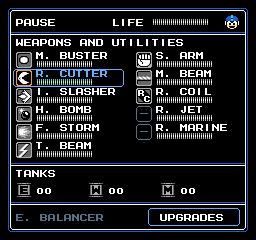
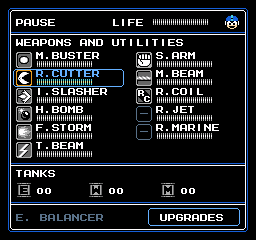
Remove spaces after periods in pause weapon names

diff --git a/docs/pause-menu-reference-observations.md b/docs/pause-menu-reference-observations.md
@@ -73,3 +73,7 @@ User explicitly assigns existing grey icons to unhighlighted state and requests 
 User “this looks good!” approves grey/selected custom icon pairs. Next agreed task places approved icons into full menu draft. build-pause-layout-v2.mjs produces Cutter-selected primary and Buster-selected alternate, same11 labels/frame/font; approved icon PNG bytes checked exact. One highlighted row, other weapon icons grey. Selection box18px matchesrowpitch, avoiding overwriting previous row's icon border. New original unselected Buster recovered with natural pause Right-to-Coil; grey-native palette verified, no RAM/colour patch.
 
 W tank now original M casing with8x8 letter interior only vertically flipped, outside pixel identity asserted; user-approved method, still art draft not tank logic. Jet/Marine original icon recovery still pending, explicitly2 placeholders. Bar/count values illustrative, optionalequipment notenabled, no GMS changes. Source credit maintained. V2 layout/frame review pending; icon pair approval doesn't imply layout/gameplay acceptance.
+
+## Compact names — user correction
+
+User says design is good and requests no space after the period in weapon names: R.CUTTER, not R. CUTTER. V2 now uses M.BUSTER,R.CUTTER,I.SLASHER,H.BOMB,F.STORM,T.BEAM,S.ARM,M.BEAM,R.COIL,R.JET,R.MARINE in both snapshots and metadata. Bounds, icon pixel-identity and compact-name assertions PASS. All icon/bar/frame positions and other design unchanged. Earlier art-review sheets are historical and may retain spaced labels; current menu generator/metadata are authoritative for display labels. No GMS changes; Rush Jet/Marine placeholders still pending.

diff --git a/Assets/Mega Man/MM5/Pause Menu/Layout Review/README.md b/Assets/Mega Man/MM5/Pause Menu/Layout Review/README.md
@@ -31,3 +31,7 @@ W placeholder replaced by Reference/mm1-w-tank-letter-flip-draft.png: original M
 Original Rush Jet/Marine icons still pending recovery: their TWO outlined slots are honest placeholders, not substitutes from the supplied sheet. Existing invented icon drafts remain historical; v2 uses approved KindlyPatrick adaptations. Optional E.BALANCER/UPGRADES area still capacity planning, not enabled equipment. Both optional adapters still undecided; pagination/reflow needed for extra entries.
 
 Tests:11 unique/in-bounds labels, exactly one selected row, all seven icon pixels exact approved state, selection outline does not overwrite adjacent icon rows, W-only-letter flip, complete font mappings. Selection outline reduced to18px high to fit18px row pitch without painting previous row's bottom icon border. Pixel images256x240 plus exact4x; no antialias/resize on source art. No GMS/menu/input/gameplay/event changes. Frame/layout review pending before importing assets. Root KindlyPatrick credit continues.
+
+### Compact-name correction
+
+User likes design and requests R.CUTTER instead of R. CUTTER. Both v2 snapshots/JSON now use compact names for all11 weapon/Rush entries. Only weapon label spacing changes; frame, bars, icons and coordinates unchanged. Generator asserts no period-space in entry labels. Run alternate snapshot with `node tools/rom-recovery/build-pause-layout-v2.mjs M.BUSTER` (default selects R.CUTTER).
